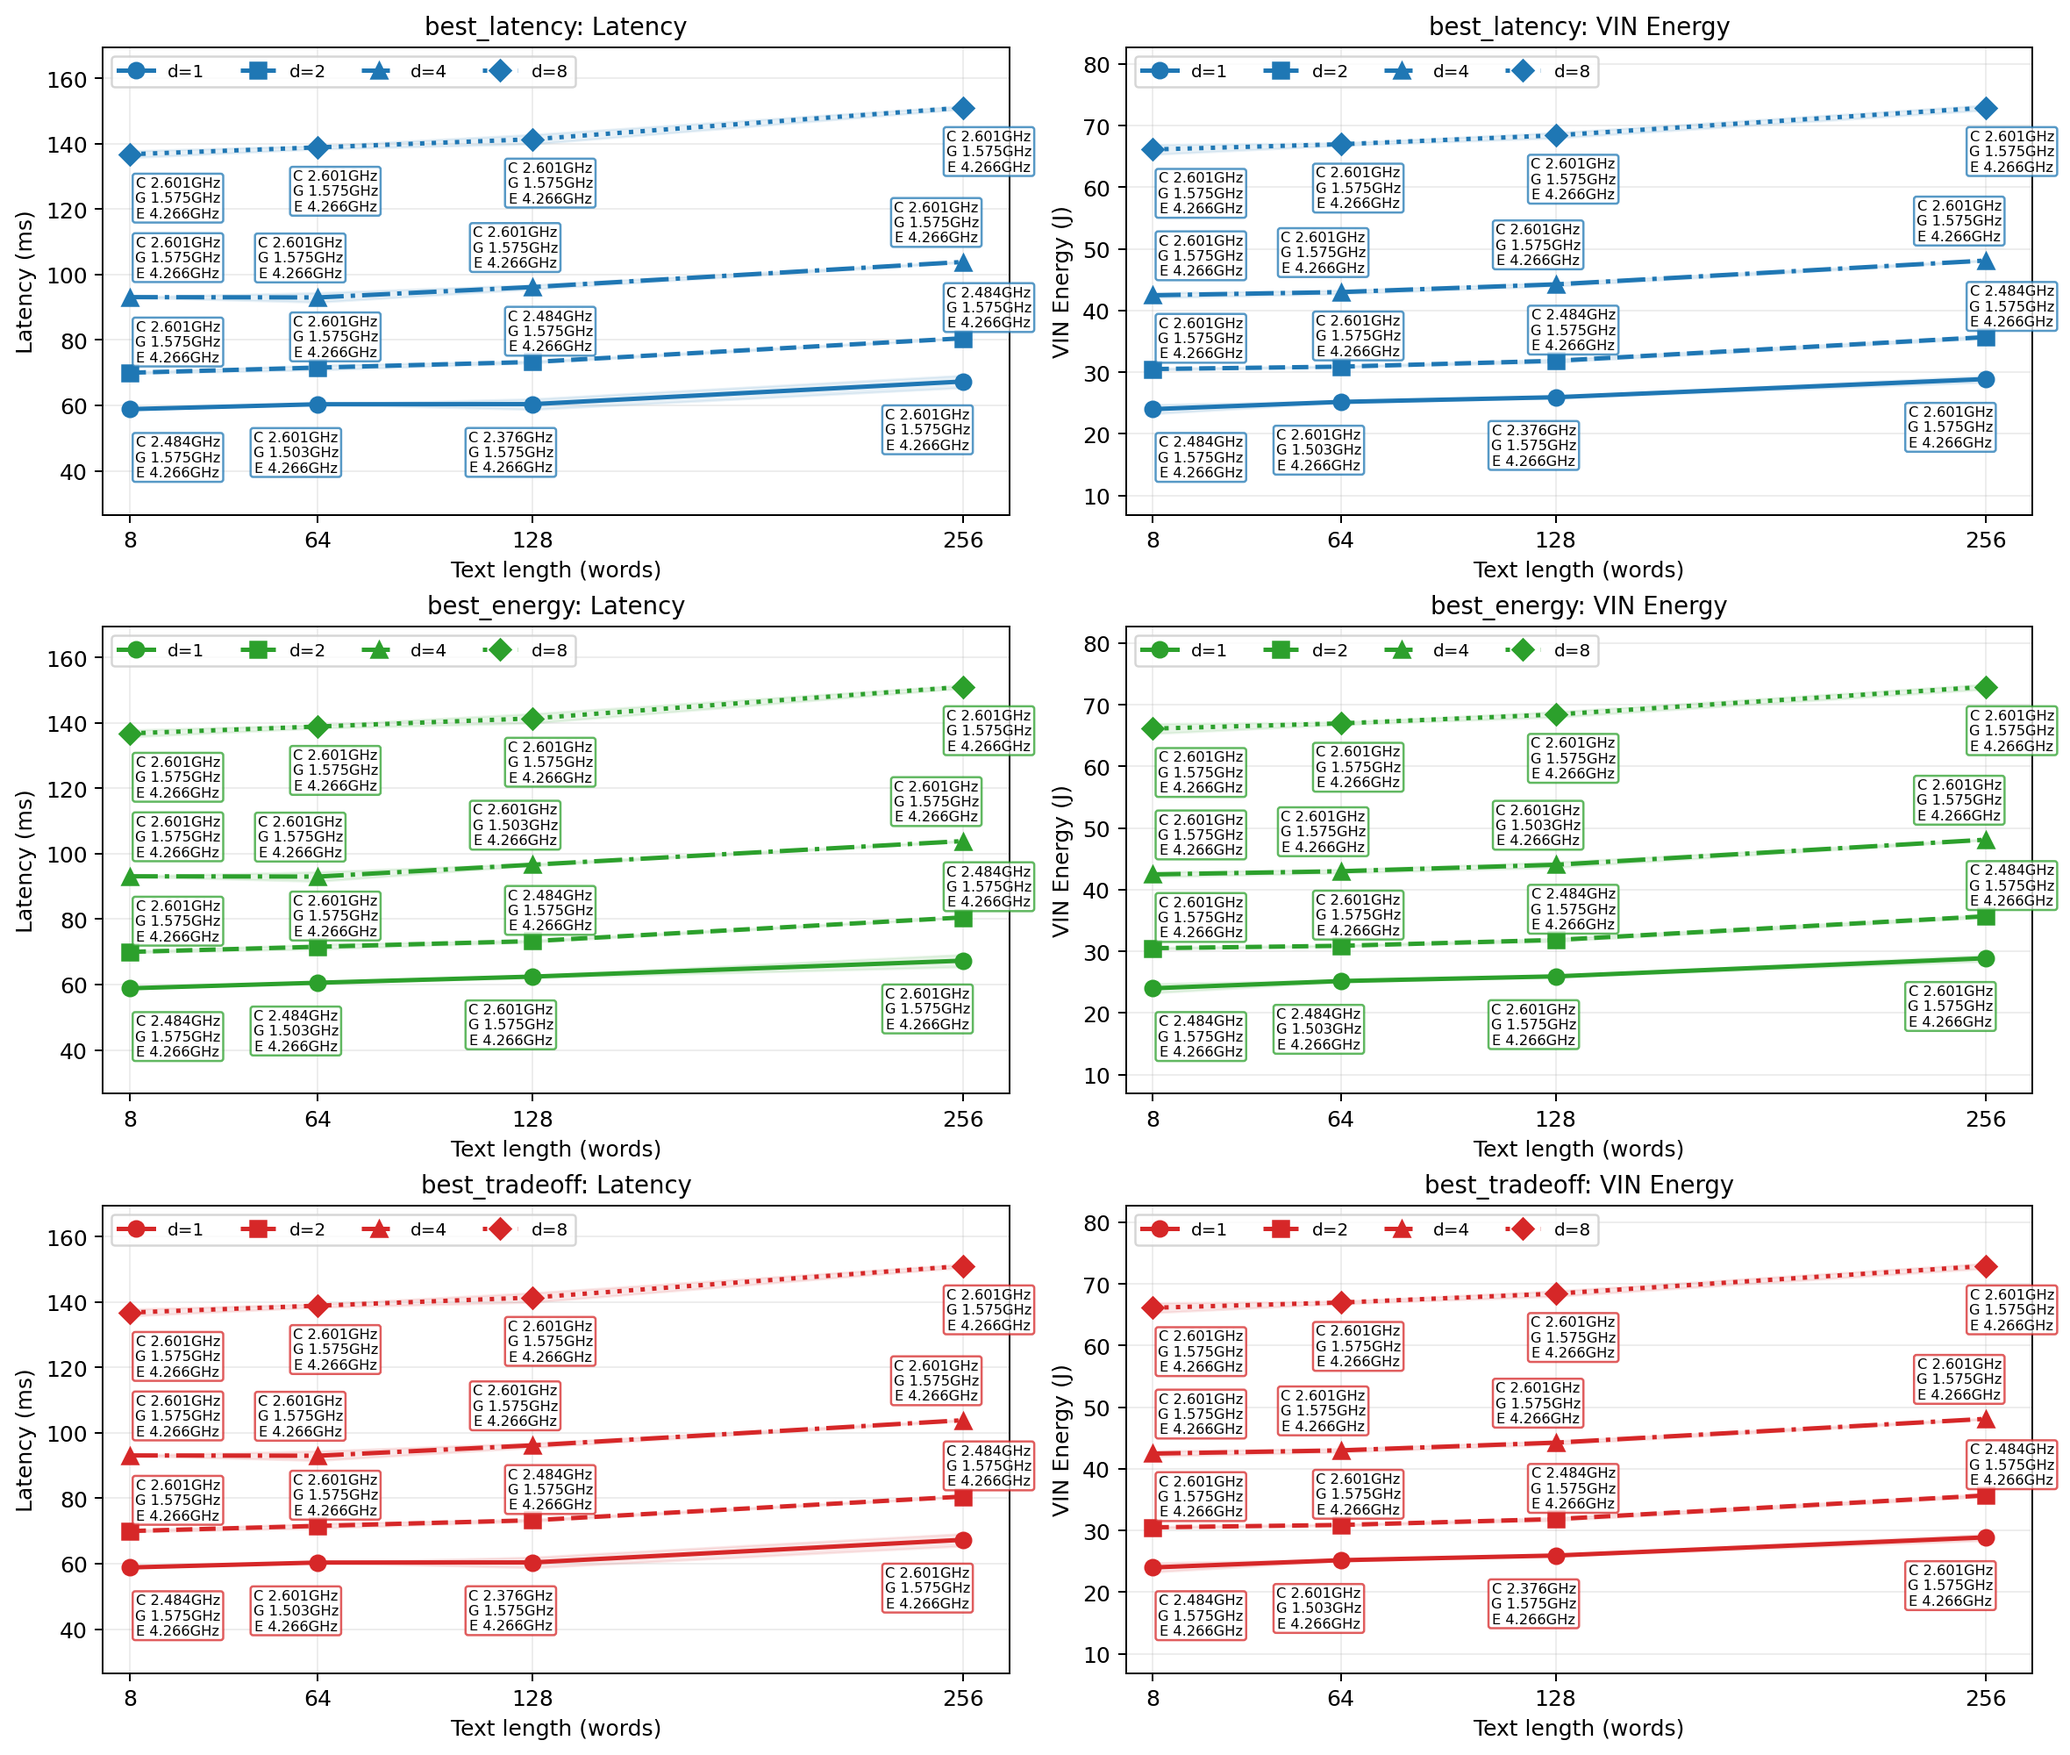
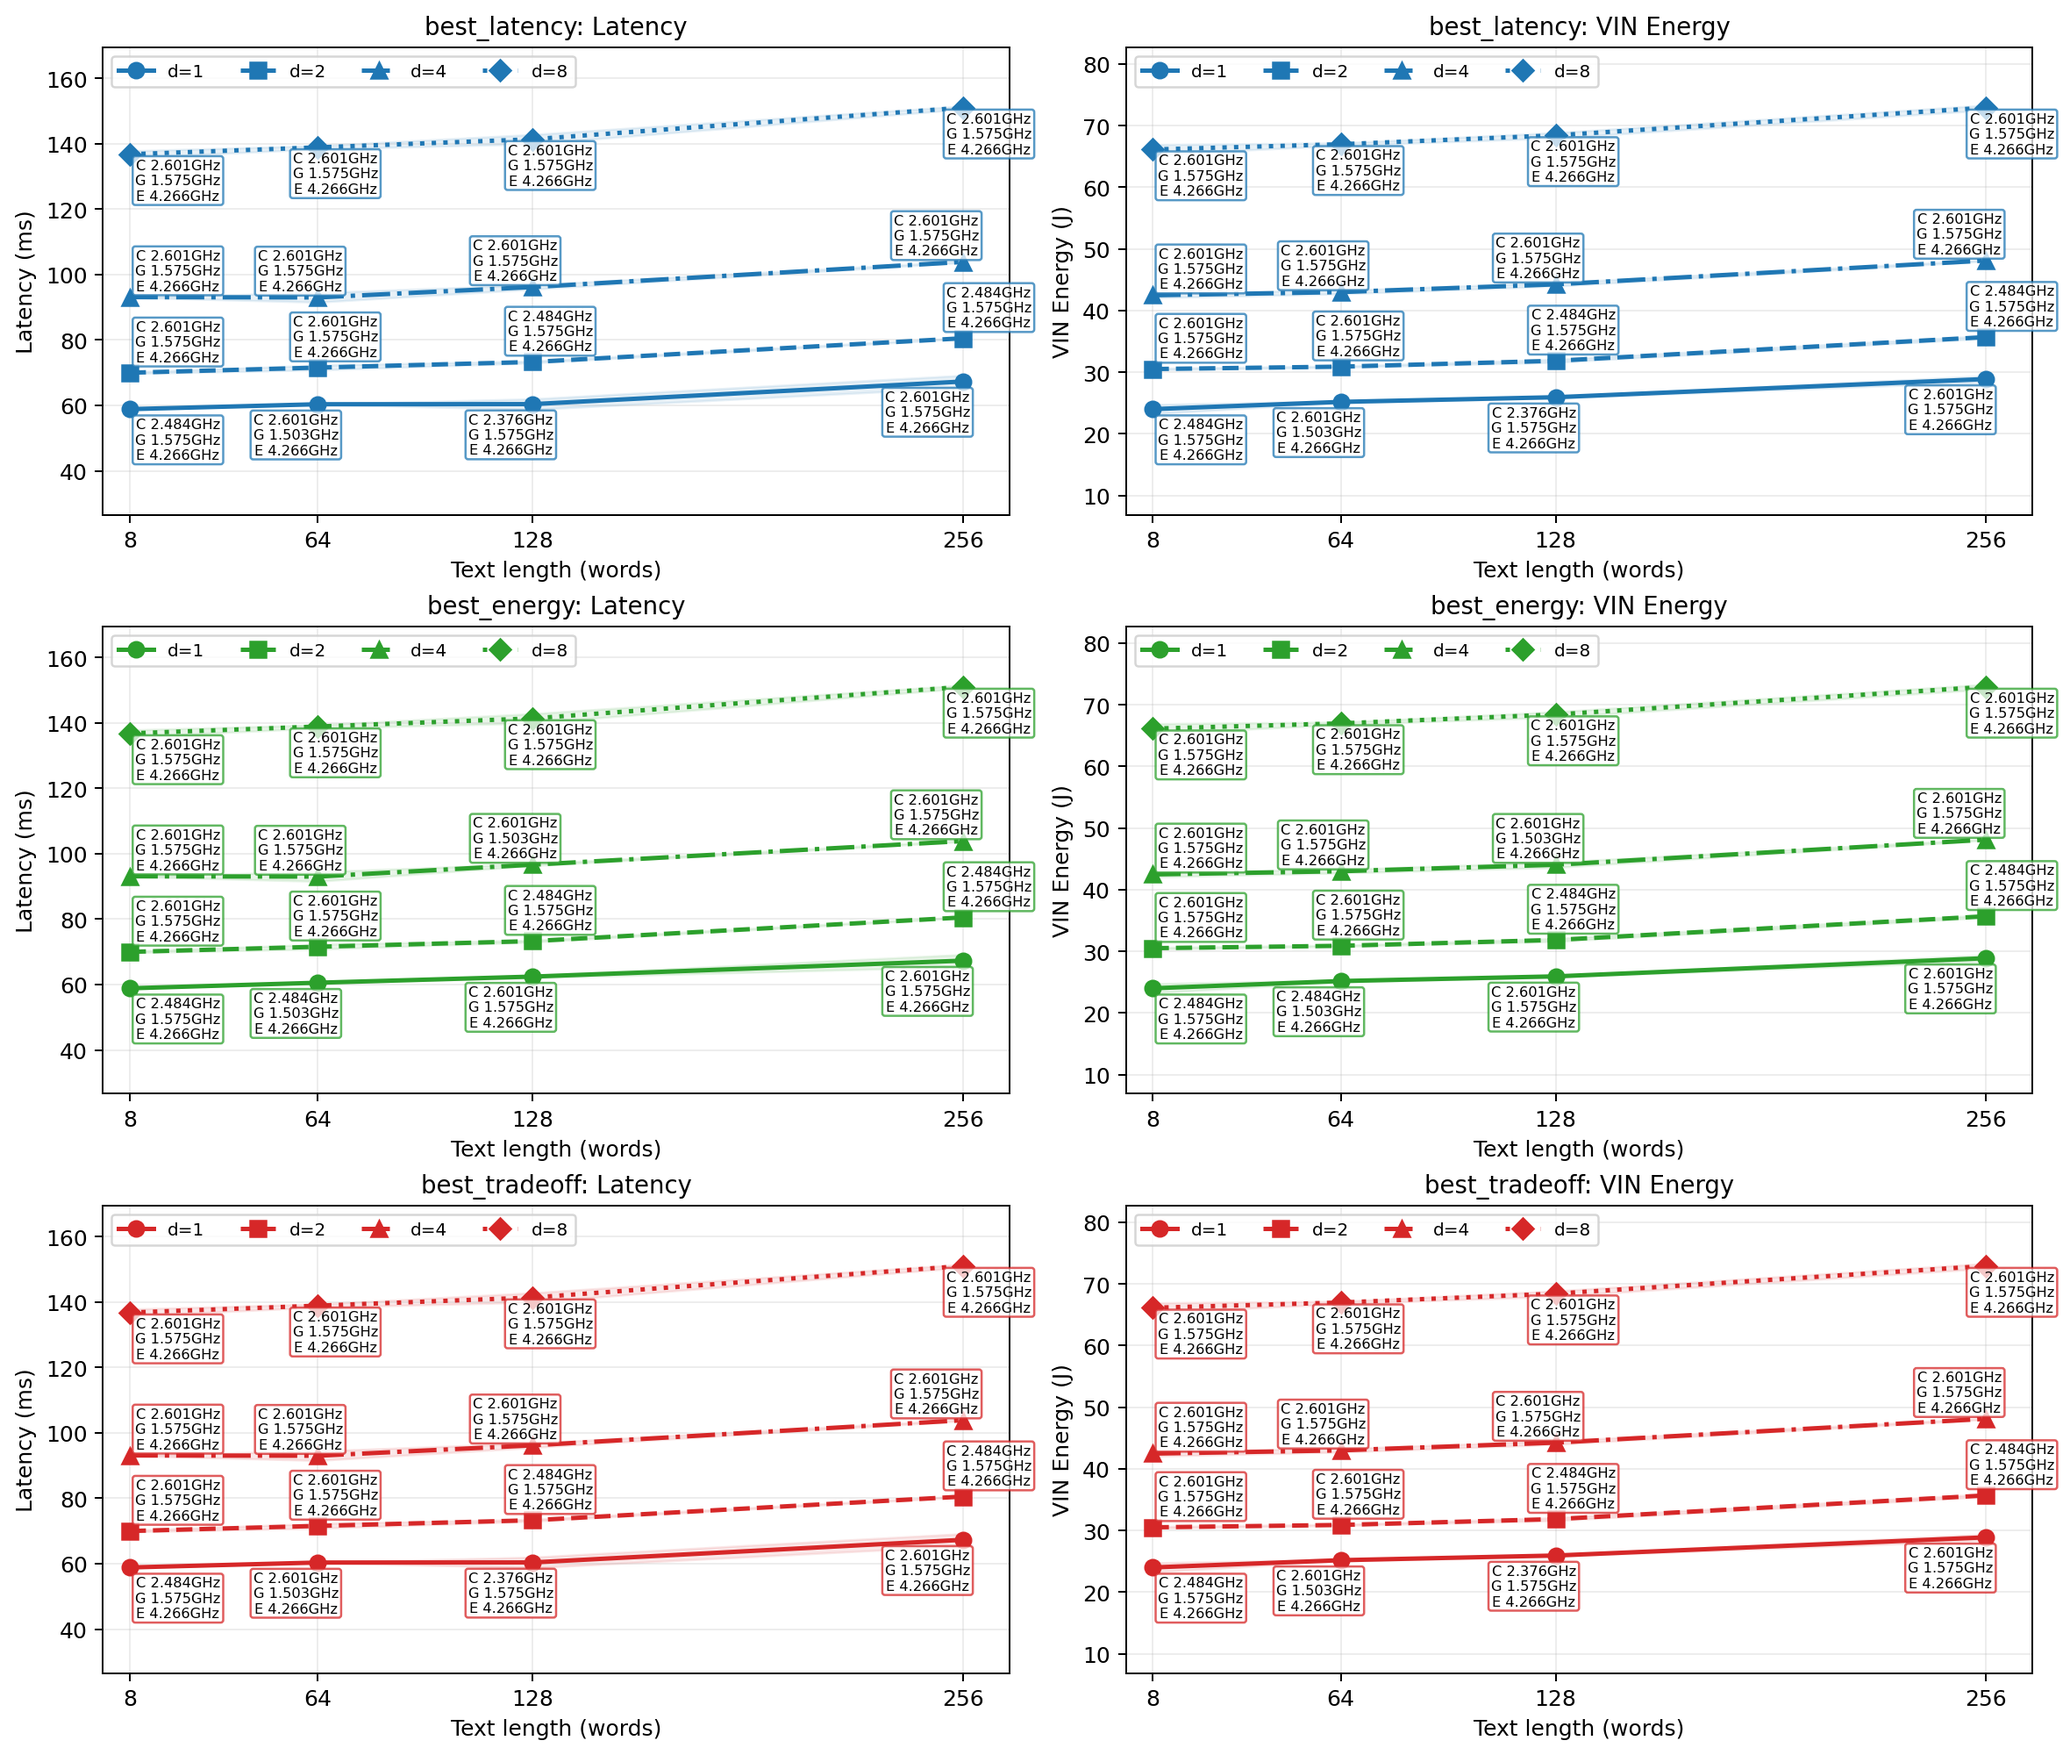
Bring dense text labels closer to lines

diff --git a/regenerated_artifacts_20260507/control_text_and_view_dense_paper/make_annotated_dense_figures.py b/regenerated_artifacts_20260507/control_text_and_view_dense_paper/make_annotated_dense_figures.py
@@ -45,10 +45,10 @@ def make_text_annotated(df: pd.DataFrame, out_path: Path) -> None:
     # Separate the annotation boxes by denoising layer. The lines are close for
     # d=1 and d=2, so small symmetric offsets make the labels collide.
     offsets = {
-        1: [(22, -22), (-10, -22), (-10, -22), (-16, -22)],
+        1: [(22, -14), (-10, -14), (-10, -14), (-16, -14)],
         2: [(22, 14), (8, 14), (8, 14), (12, 14)],
-        4: [(22, 18), (-8, 18), (-8, 18), (-12, 18)],
-        8: [(22, -20), (8, -20), (8, -20), (12, -20)],
+        4: [(22, 12), (-8, 12), (-8, 12), (-12, 12)],
+        8: [(22, -12), (8, -12), (8, -12), (12, -12)],
     }
 
     for r, selection in enumerate(SELECTIONS):
